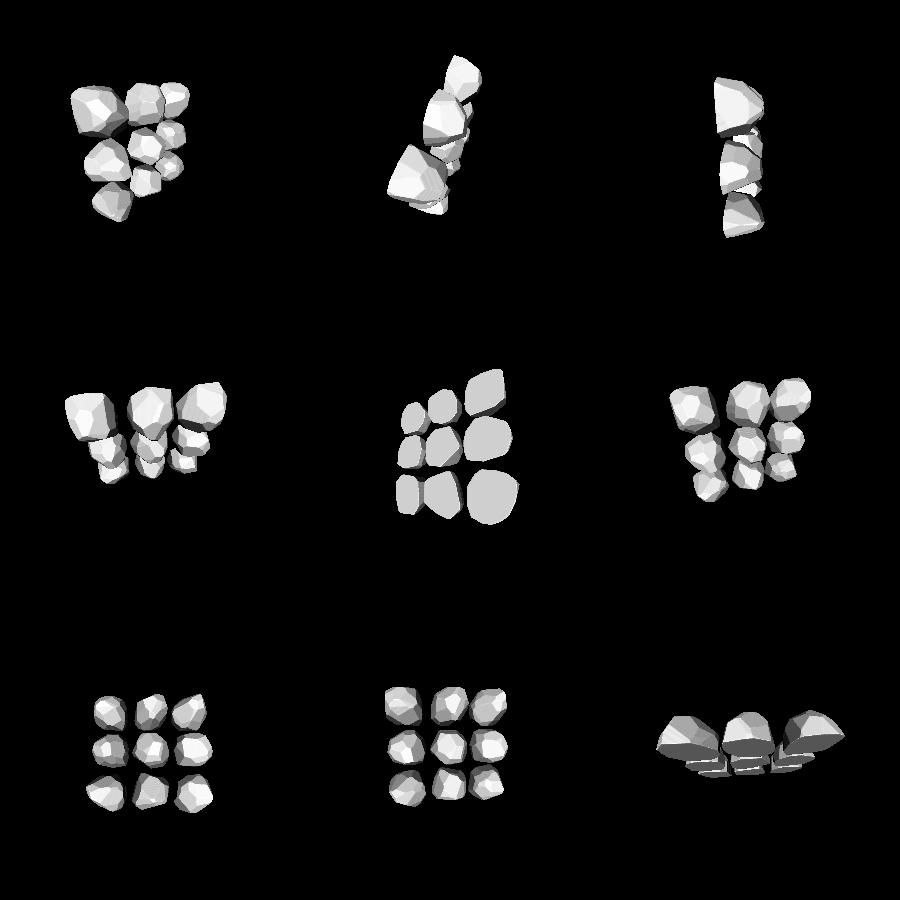
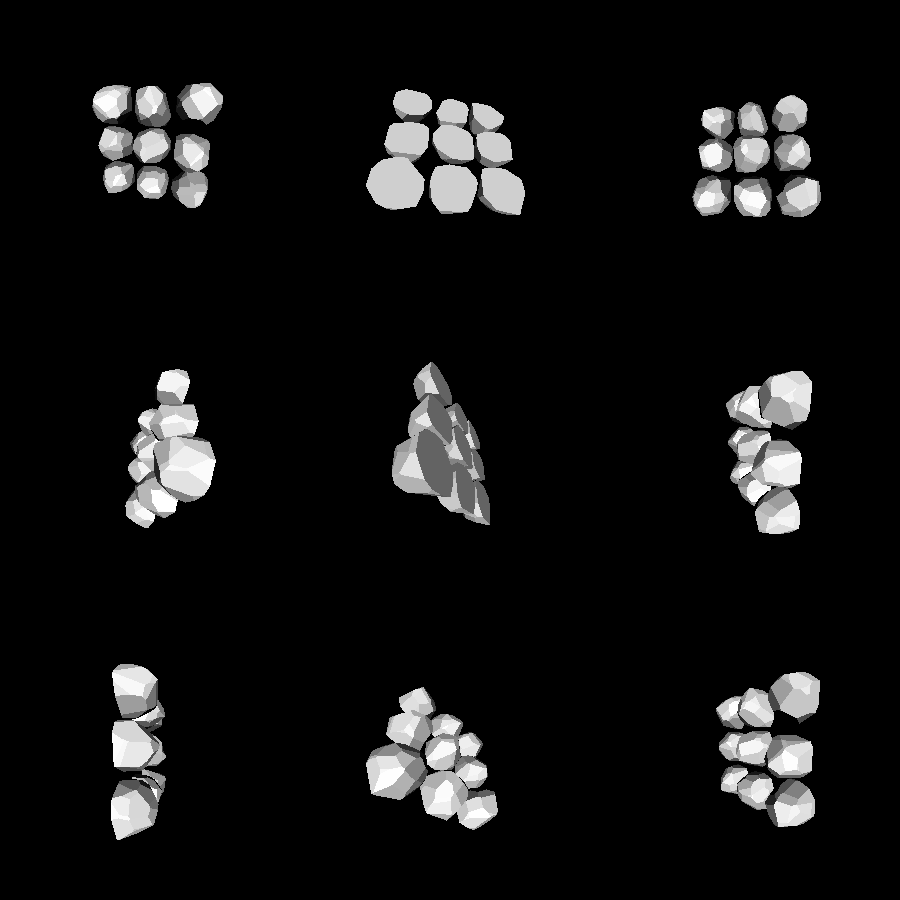
more efficient rock demo

diff --git a/examples/decoration/rock/main.go b/examples/decoration/rock/main.go
@@ -17,41 +17,50 @@ const (
 
 func main() {
 	log.Println("Creating rocks...")
-	var rocks model3d.JoinedSolid
+	mesh := model3d.NewMesh()
 	for i := 0; i < GridSize; i++ {
 		for j := 0; j < GridSize; j++ {
-			min := model3d.Coord3D{X: float64(i) * 1.1, Y: float64(j) * 1.1, Z: 0}
-			rock := &RockSolid{
-				Solid: &model3d.RectSolid{
-					MinVal: min,
-					MaxVal: min.Add(model3d.Coord3D{X: 1, Y: 1, Z: rand.Float64()*0.1 + 0.95}),
+			rock := model3d.ConvexPolytope{
+				&model3d.LinearConstraint{
+					Normal: model3d.Coord3D{X: -1},
+					Max:    0,
+				},
+				&model3d.LinearConstraint{
+					Normal: model3d.Coord3D{X: 1},
+					Max:    1,
+				},
+				&model3d.LinearConstraint{
+					Normal: model3d.Coord3D{Y: -1},
+					Max:    0,
+				},
+				&model3d.LinearConstraint{
+					Normal: model3d.Coord3D{Y: 1},
+					Max:    1,
+				},
+				&model3d.LinearConstraint{
+					Normal: model3d.Coord3D{Z: -1},
+					Max:    0,
+				},
+				&model3d.LinearConstraint{
+					Normal: model3d.Coord3D{Z: 1},
+					Max:    1,
 				},
 			}
 			for i := 0; i < 100; i++ {
-				rock.AddConstraint()
+				rock = AddConstraint(rock)
 			}
-			rocks = append(rocks, rock)
+			min := model3d.Coord3D{X: float64(i) * 1.1, Y: float64(j) * 1.1, Z: 0}
+			mesh.AddMesh(rock.Mesh().MapCoords(min.Add))
 		}
 	}
 
-	log.Println("Creating mesh...")
-	mesh := model3d.SolidToMesh(rocks, 0.01, 0, -1, 5)
-	log.Println("Lasso mesh...")
-	for i := 0; i < 5; i++ {
-		mesh = mesh.LassoSolid(rocks, 0.01, 3, 0, 0.2)
-	}
 	log.Println("Saving results...")
 	mesh.SaveGroupedSTL("rock.stl")
 	model3d.SaveRandomGrid("rendering.png", model3d.MeshToCollider(mesh), 3, 3, 300, 300)
 }
 
-type RockSolid struct {
-	model3d.Solid
-	Constraints []*LinearConstraint
-}
-
-func (r *RockSolid) AddConstraint() {
-	lc := &LinearConstraint{
+func AddConstraint(r model3d.ConvexPolytope) model3d.ConvexPolytope {
+	lc := &model3d.LinearConstraint{
 		Normal: model3d.Coord3D{
 			X: rand.NormFloat64(),
 			Y: rand.NormFloat64(),
@@ -60,39 +69,16 @@ func (r *RockSolid) AddConstraint() {
 	}
 	var dotValues []float64
 	for len(dotValues) < AdditionSamples {
-		min := r.Min()
-		scale := r.Max().Sub(min)
 		c := model3d.Coord3D{
-			X: rand.Float64()*scale.X + min.X,
-			Y: rand.Float64()*scale.Y + min.Y,
-			Z: rand.Float64()*scale.Z + min.Z,
+			X: rand.Float64(),
+			Y: rand.Float64(),
+			Z: rand.Float64(),
 		}
 		if r.Contains(c) {
 			dotValues = append(dotValues, c.Dot(lc.Normal))
 		}
 	}
 	sort.Float64s(dotValues)
-	lc.MaxDot = dotValues[KeepSamples]
-	r.Constraints = append(r.Constraints, lc)
-}
-
-func (r *RockSolid) Contains(c model3d.Coord3D) bool {
-	if !r.Solid.Contains(c) {
-		return false
-	}
-	for _, constraint := range r.Constraints {
-		if !constraint.Satisfies(c) {
-			return false
-		}
-	}
-	return true
-}
-
-type LinearConstraint struct {
-	Normal model3d.Coord3D
-	MaxDot float64
-}
-
-func (l *LinearConstraint) Satisfies(c model3d.Coord3D) bool {
-	return l.Normal.Dot(c) <= l.MaxDot
+	lc.Max = dotValues[KeepSamples]
+	return append(r, lc)
 }
